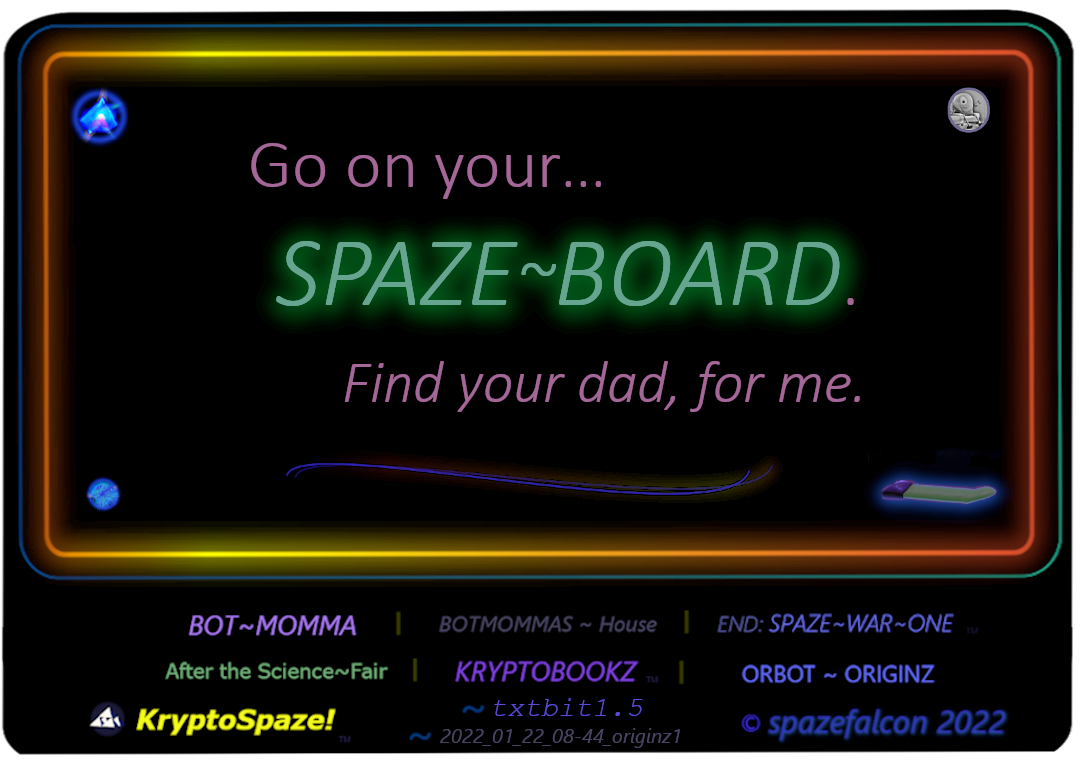
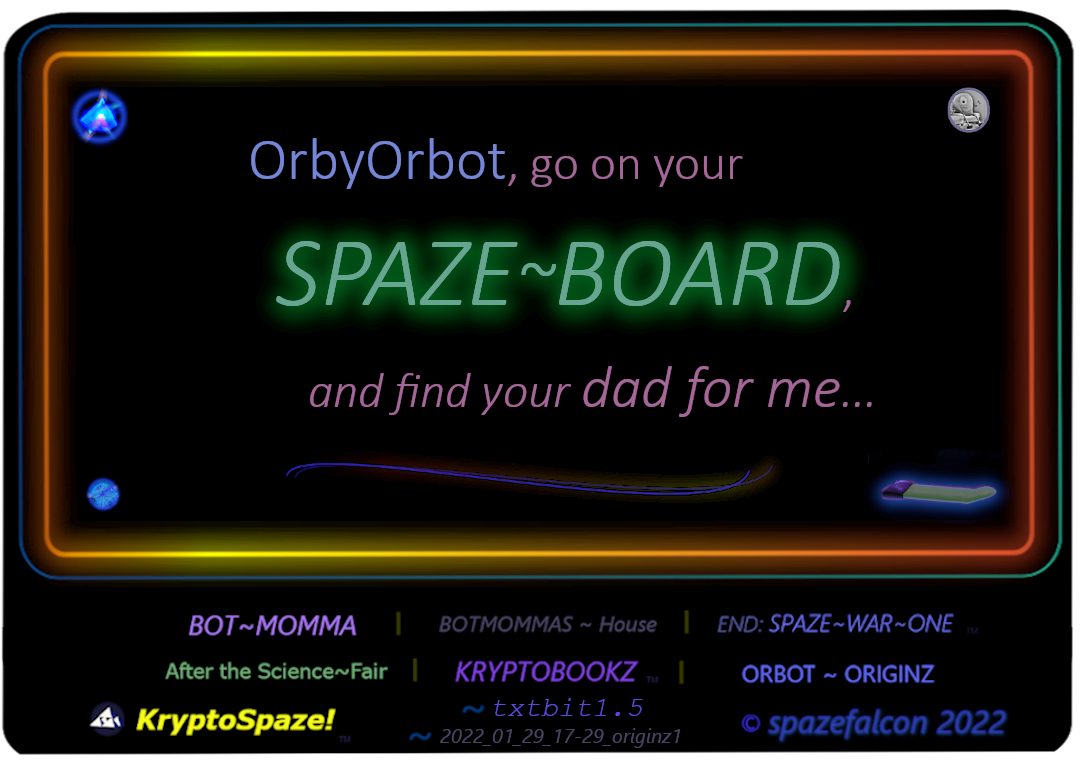
imgz

Changed region(s): [[0.275, 0.4836, 0.7944, 0.544], [0.2139, 0.1813, 0.6722, 0.272], [0.4889, 0.9369, 0.55, 0.9974]]

diff --git a/index.html b/index.html
@@ -123,7 +123,8 @@
 <button id="mainTOPRGTBTN" class="steelNeonIconBtn disabledBTN" style='position:fixed;top:1%;right:0.5%;z-index:1111'><i class="fa fa-bars"></i></button>
 <button id="mainRGTBTN" class="steelNeonIconBtn glowBTN" style='position:fixed;top:50%;right:0.5em;z-index:1111'><i class="fa fa-chevron-circle-down" style="font-size:1em;"></i></button>
 <button id="mainLFTBTN" class="steelNeonIconBtn disabledBTN" style='position:fixed;top:50%;left:0.5em;z-index:1111'><i class="fa fa-chevron-circle-up" style="font-size:1em;"></i></button>
-<aside id="mainPageNums" style='position:fixed;bottom:13%;right:0.5em;z-index:1111'></aside>
+<aside id="mainPageNums" style='position:fixed;bottom:13%;right:1em;z-index:1111;font-size: 0.666em;'></aside>
+<aside id="mintDate" style='position:fixed;bottom:13%;left:2em;z-index:1111;font-size: 0.666em;font-style: italic;'>1_<script>document.write( new Date().getFullYear() );</script></aside>
 <script>
     window.ui = {}; //GRID9 - pre data integration
     // ui.mainTOPLFTBTN = document.getElementById('mainTOPLFTBTN');
@@ -131,6 +132,7 @@
     //     debugger;  
     //     // <a href="https://opensea.io/accounts/kryptospaze" target="_blank" class="button">
     // })   
+    ui.mintDate = document.getElementById('mintDate');  
     ui.mainPageNums = document.getElementById('mainPageNums');  
     ui.mainTOPRGTBTN = document.getElementById('mainTOPRGTBTN');
     ui.mainTOPRGTBTN.addEventListener("click", ()=> { debugger;  })      
@@ -182,7 +184,7 @@
 <header id="pageTitle" style="padding:0.666em;">
     <section style="margin: 0.222em;">
         <!-- <span style="    font-size:0.444em; font-weight:bold; font-family:impact; color:steelblue; letter-spacing:0.0888em;text-shadow: 1px 1px 1px purple;"><&nbsp;</span> -->
-        <span style="font-size:3.222em; text-shadow: 6px 1px 14px purple;">KRYPTOBOOKZ</span>
+        <span style="font-size:3.222em; text-shadow: 6px 1px 14px purple;">KRYPTOBOOKZ</span><span style="font-size:0.444em;">&trade;</span>
         <!-- <span style="    font-size:0.444em; font-weight:bold; font-family:impact; color:steelblue; letter-spacing:0.0888em;text-shadow: 1px 1px 1px purple;">>&nbsp;</span> -->
     </section>
 

diff --git a/KBZ_ENGINE_1.1.1/kryptobookz.js b/KBZ_ENGINE_1.1.1/kryptobookz.js
@@ -700,16 +700,16 @@ let SPAZEBOOK_KRYPTOBITZ1 = [
      IMG:"./copyrightNetCinematics/2022_ORIGINZ_BITZ/originz_IMGBIT1.3_spazewarz1.png",
      TXT:"./copyrightNetCinematics/2022_ORIGINZ_BITZ/originz_bit1.3_spazewarz_5x4_TXT.png"},
     {IDX:'1.3.1',
-     IMG:"./copyrightNetCinematics/2022_ORIGINZ_BITZ/originz_IMGBIT1.3.1_orbylook1.png"//,
+     IMG:"./copyrightNetCinematics/2022_ORIGINZ_BITZ/originz_IMGBIT1.3.1_orbyzoomout2.png"//,
     //  TXT:"./copyrightNetCinematics/2022_ORIGINZ_BITZ/originz_bit1.3_spazewarz_5x4_TXT.png"
     },
     {IDX:'1.4',
-     IMG:"./copyrightNetCinematics/2022_ORIGINZ_BITZ/originz_IMGBIT1.4_myheart1.png",
+     IMG:"./copyrightNetCinematics/2022_ORIGINZ_BITZ/originz_IMGBIT1.4_chargeit3.png",
      TXT:"./copyrightNetCinematics/2022_ORIGINZ_BITZ/originz_bit1.4_myheart_5x4_TXT.png"},
     {IDX:'1.4.1',
-     IMG:"./copyrightNetCinematics/2022_ORIGINZ_BITZ/originz_IMGBIT1.4.1_recharging1.png"},
+     IMG:"./copyrightNetCinematics/2022_ORIGINZ_BITZ/originz_IMGBIT1.4.1_recharg3.png"},
     {IDX:'1.5',
-     IMG:"./copyrightNetCinematics/2022_ORIGINZ_BITZ/originz_IMGBIT1.5_spazeboard1.png",
+     IMG:"./copyrightNetCinematics/2022_ORIGINZ_BITZ/originz_IMGBIT1.5_spazeboard2.png",
      TXT:"./copyrightNetCinematics/2022_ORIGINZ_BITZ/originz_bit1.5_spazeboard_5x4_TXT.png"},
     {IDX:'1.6',
      IMG:"./copyrightNetCinematics/2022_ORIGINZ_BITZ/originz_IMGBIT1.6_mombot1.png",
@@ -806,7 +806,7 @@ function updatePageState(){ // grey page btns,
     }
 
     //Set PAGE NUMBER
-    ui.mainPageNums.innerHTML = `${SPAZEBOOK_IDX+1}of${SPAZEBOOK_KRYPTOBITZ1.length}`
+    ui.mainPageNums.innerHTML = `${SPAZEBOOK_IDX+1} of ${SPAZEBOOK_KRYPTOBITZ1.length}`
 
 
 }

diff --git a/KBZ_ENGINE_1.1.1/kryptoviz.js b/KBZ_ENGINE_1.1.1/kryptoviz.js
@@ -21,10 +21,23 @@ function createKRYPTOPAGE(bitz){
     pageFrame.style.borderRadius = "10px";
     pageFrame.style.padding = "0.111em";
     pageFrame.style.margin = "0.444em";
+    // pageFrame.style.marginBottom = "8.888%";
     pageFrame.style.boxShadow = "1px 1px 20px 0px blue";
     pageFrame.classList.add('bit-item');
     pageFrame.id = bitz.IDX;//.replace('.','-'));
     console.log("render: ",bitz.IDX)
+
+    let pageSpacer = document.createElement('section');
+    pageSpacer.style.backgroundColor = 'black';
+    pageSpacer.style.borderRadius = "10px";
+    pageSpacer.style.padding = "0.111em";
+    pageSpacer.style.margin = "0.444em";
+    pageSpacer.style.height = "4.444em";
+    // pageSpacer.style.marginBottom = "8.888%";
+    pageSpacer.style.boxShadow = "1px 1px 20px 0px blue";
+    pageSpacer.classList.add('bit-spacer');
+
+
 
     var IMGBIT = document.createElement('article');
     IMGBIT.style.backgroundColor = 'black';
@@ -98,6 +111,7 @@ function createKRYPTOPAGE(bitz){
         })
     } 
         
+    if (KRYPTOBOOKFrame1) { KRYPTOBOOKFrame1.insertAdjacentElement('beforeend', pageSpacer); }
     // if (pageFrame && pageCard) { pageFrame.insertAdjacentElement('beforeend', pageCard); }
     if(imgCard1 && IMGBIT){IMGBIT.insertAdjacentElement('afterbegin', imgCard1);}
     if(txtCard2 && TXTBIT){TXTBIT.insertAdjacentElement('afterbegin', txtCard2);}
